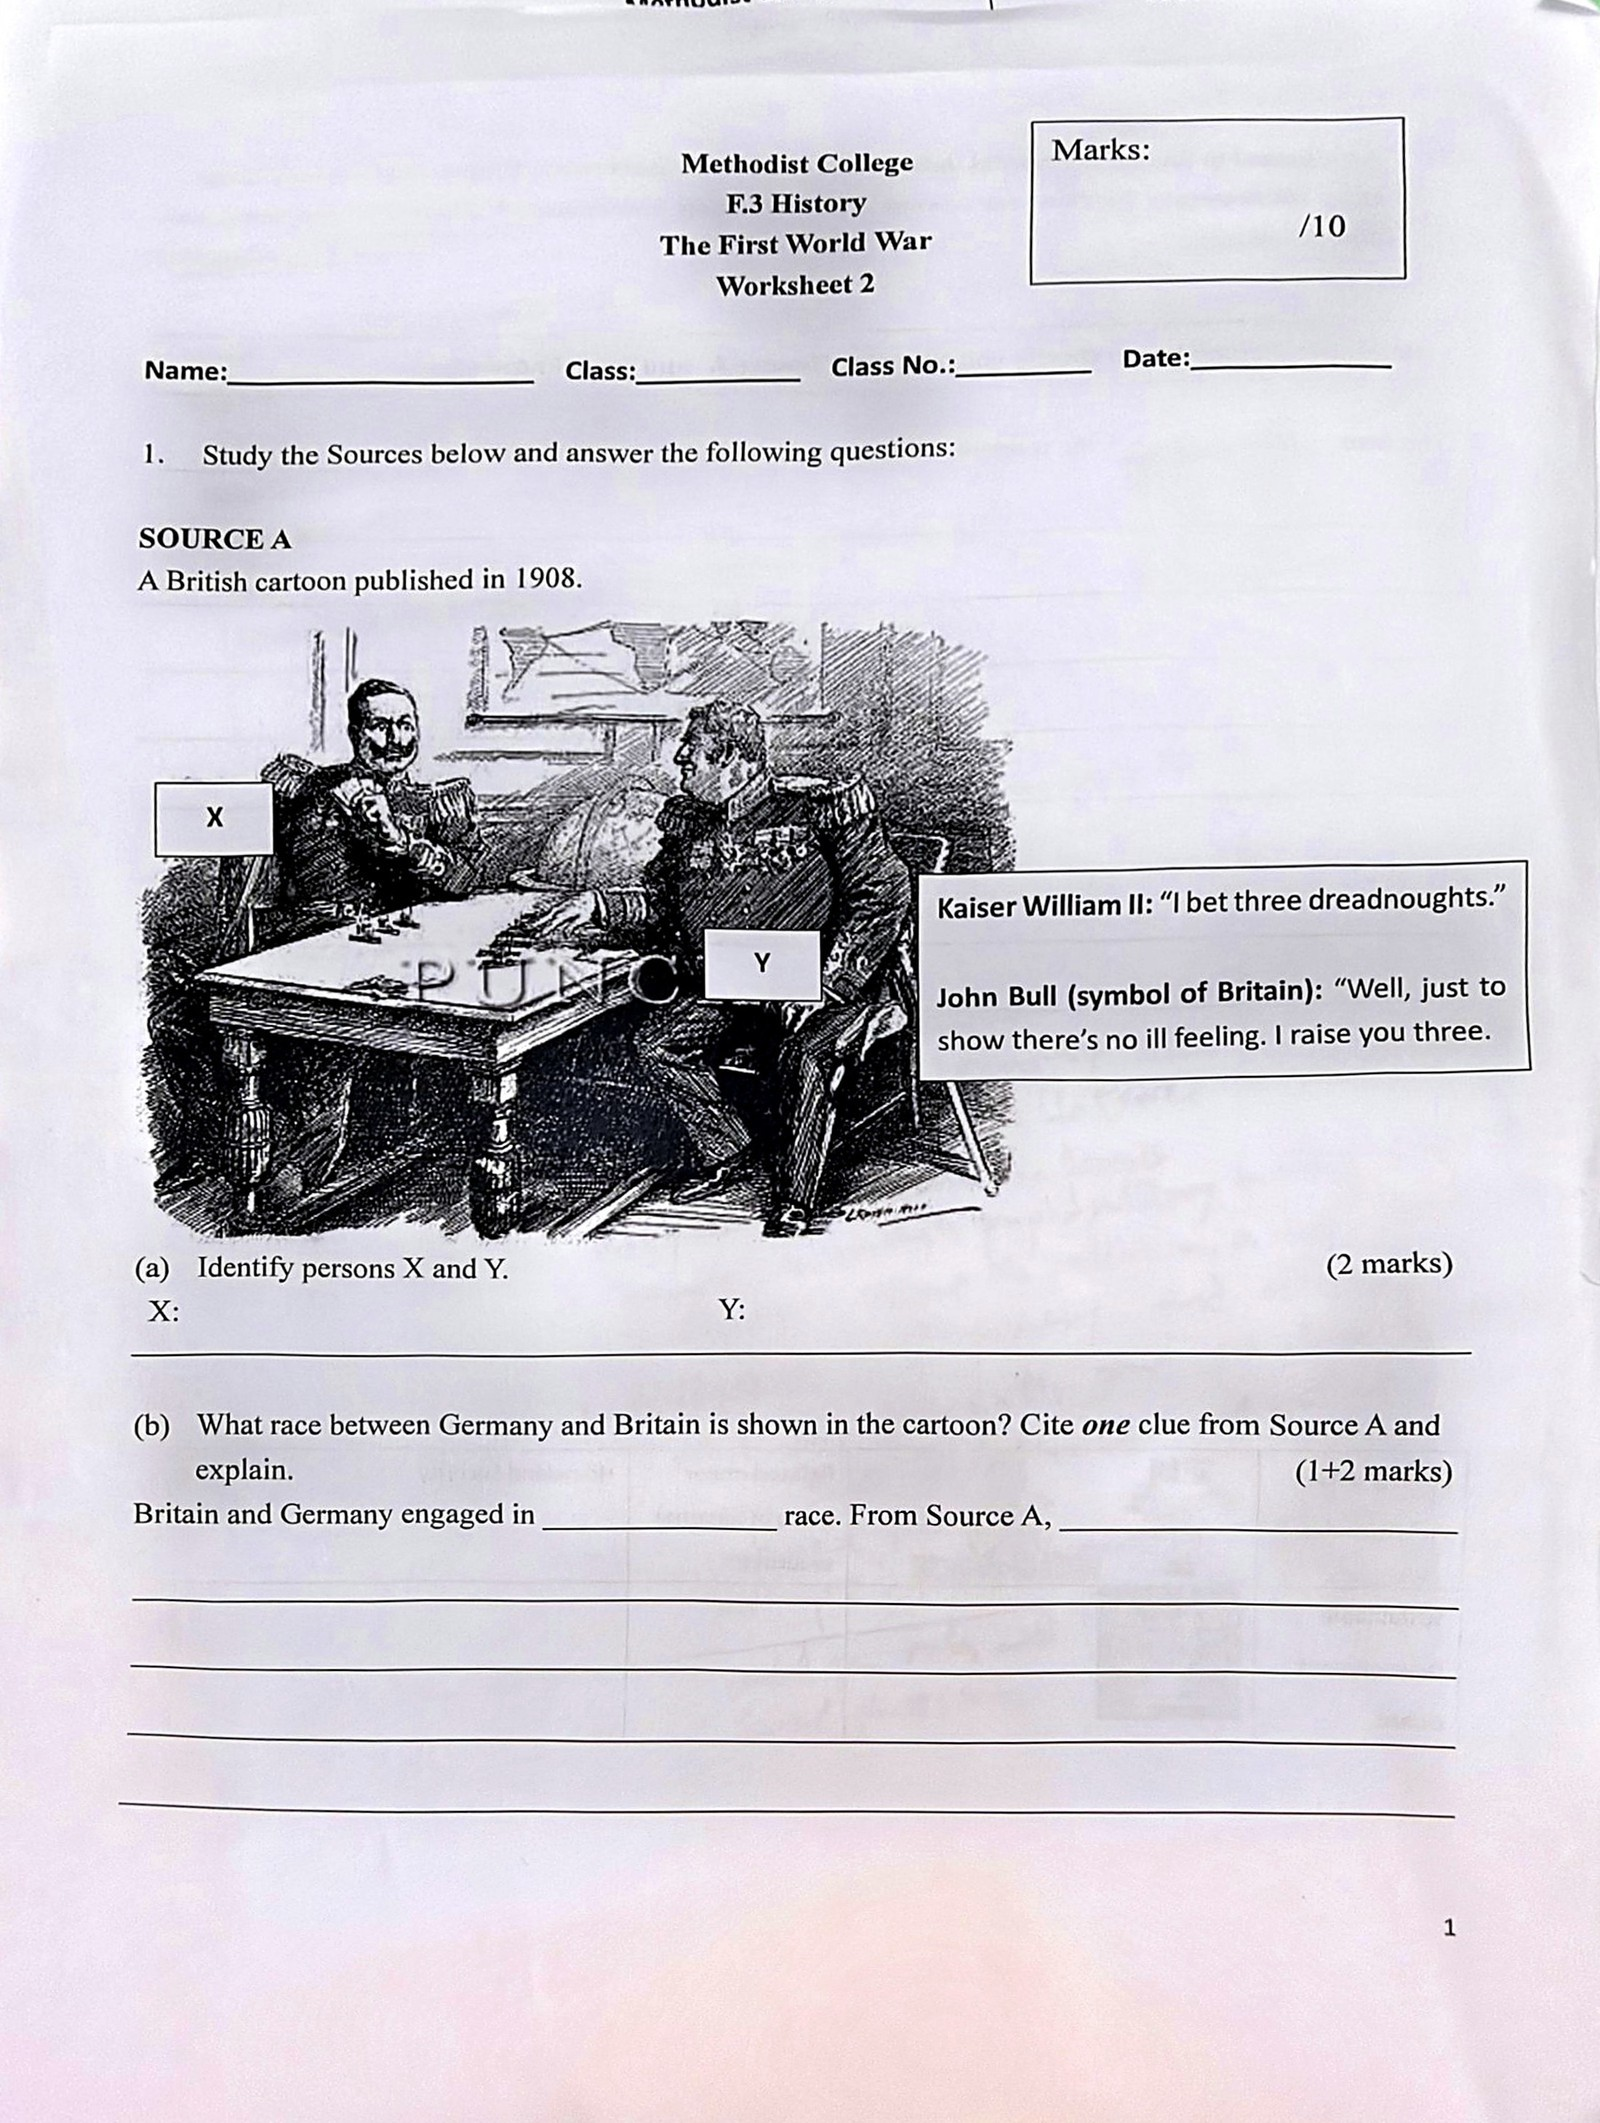
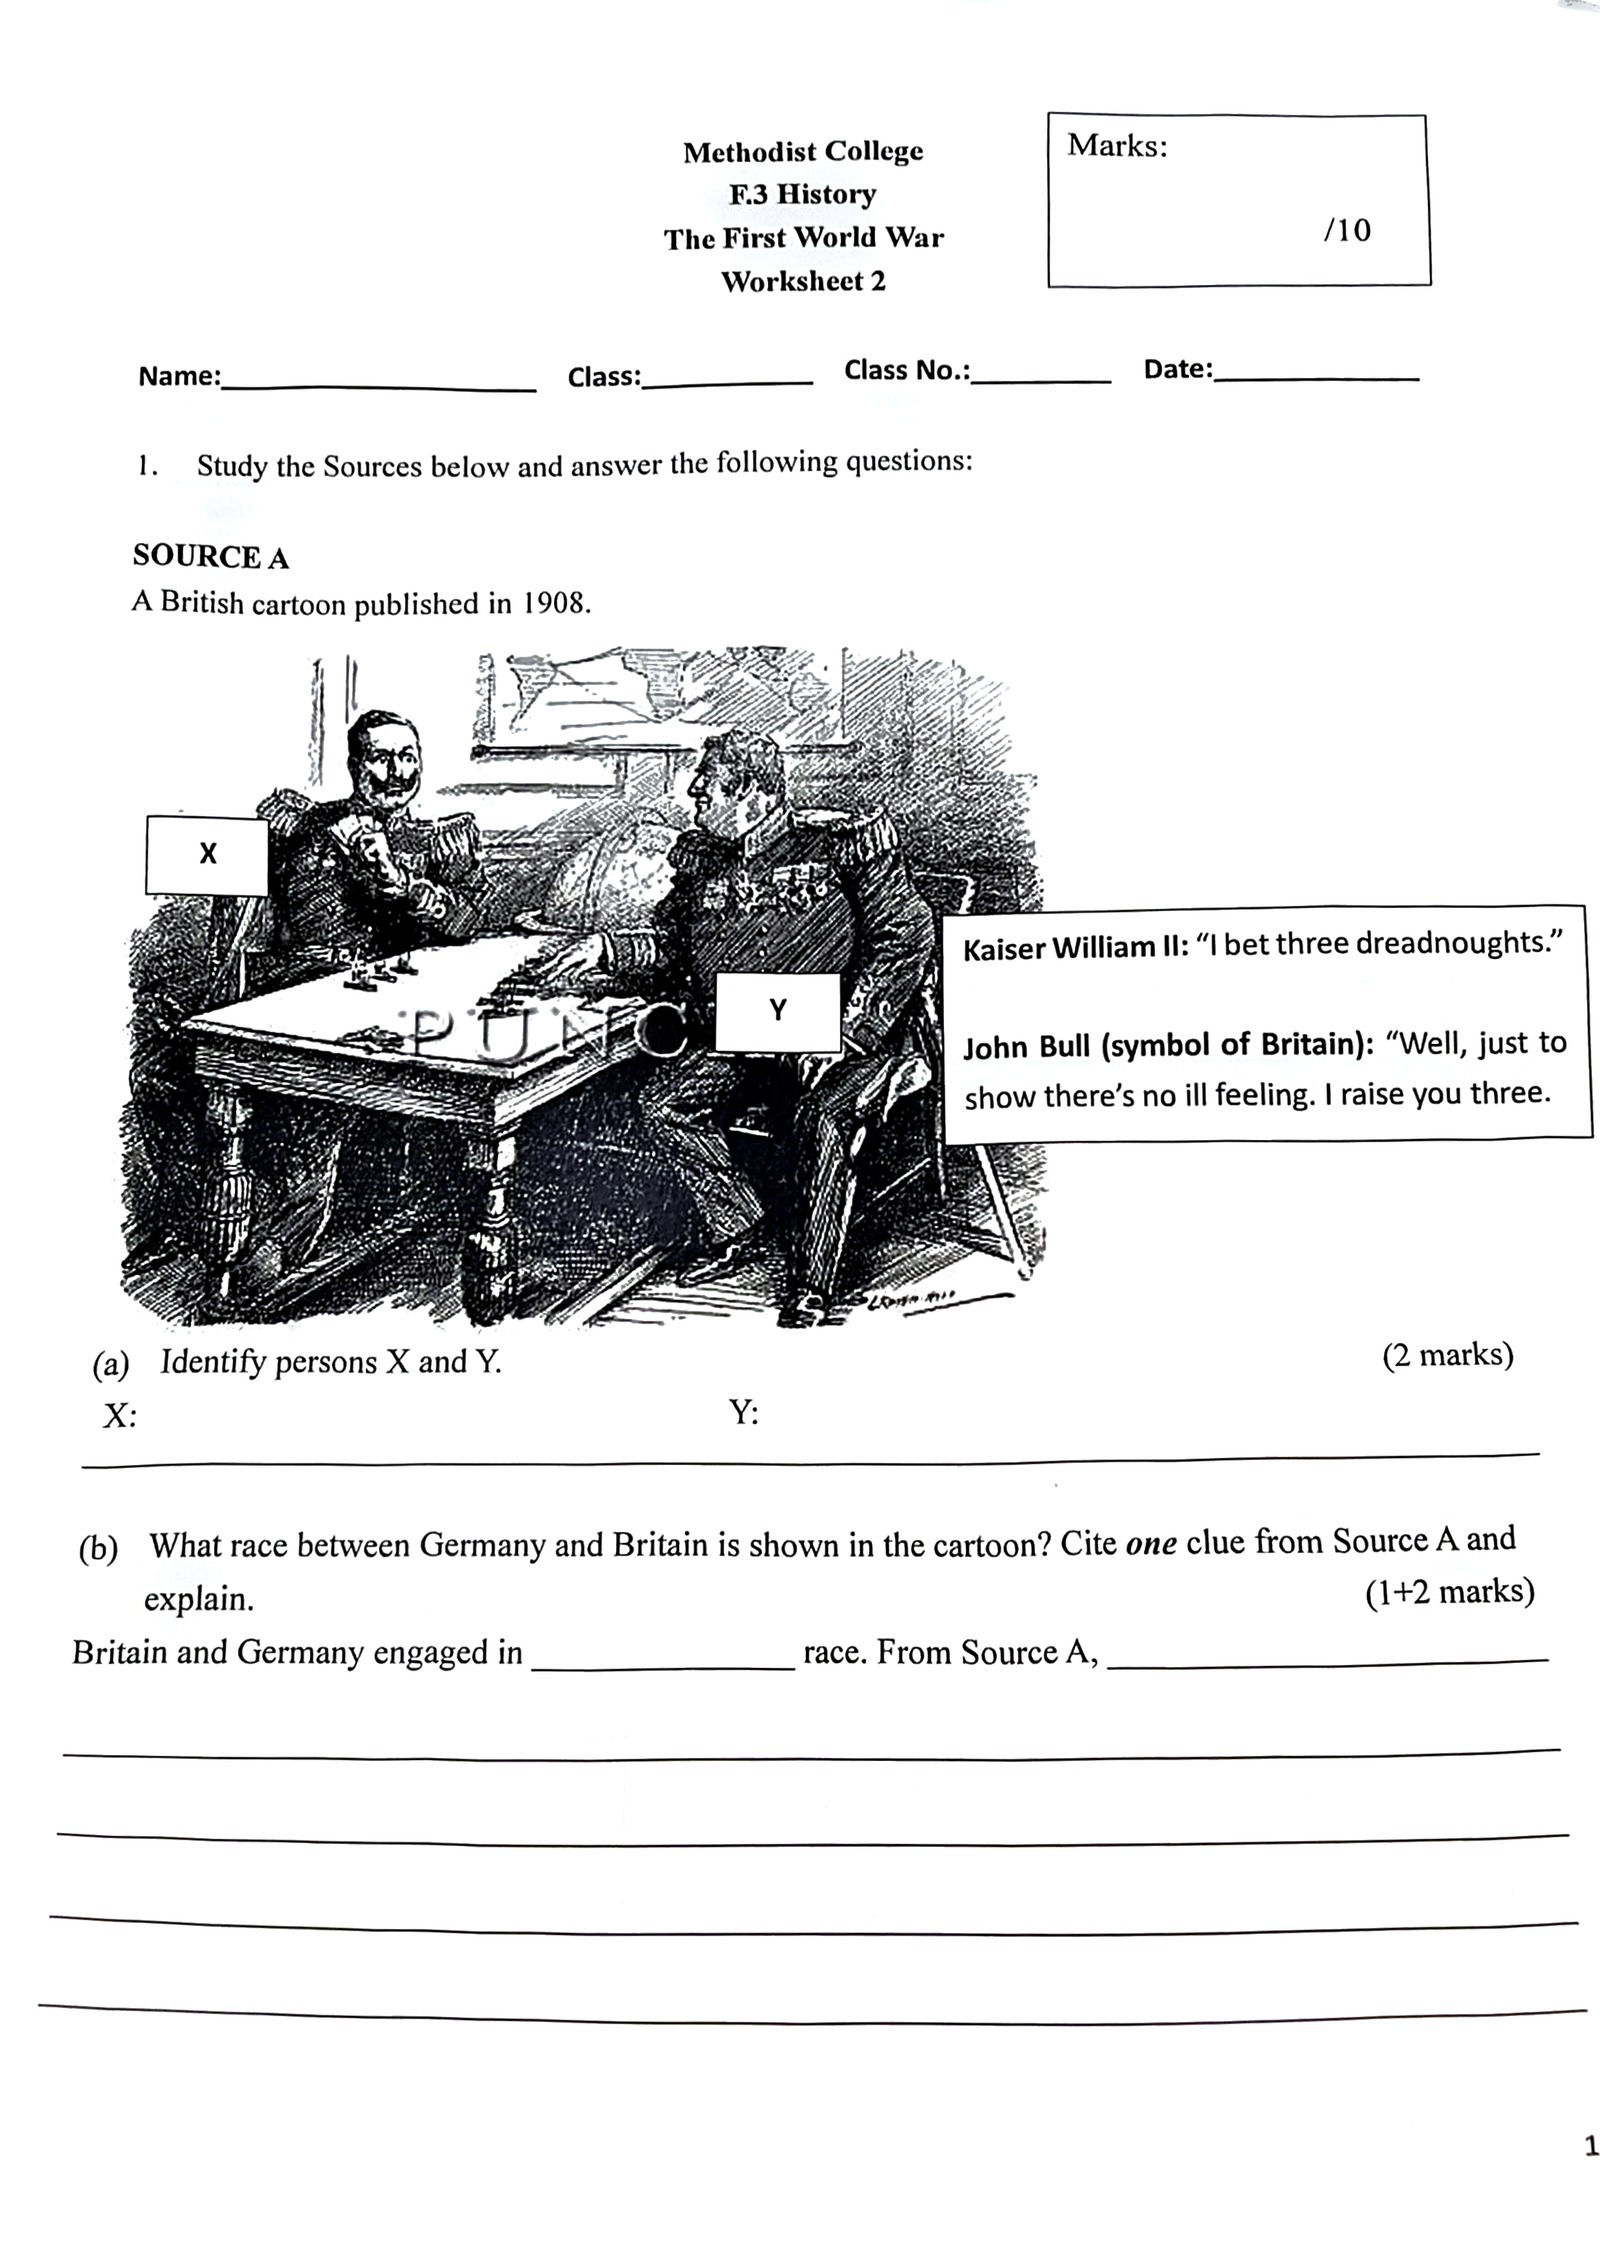
update v4yr8p: WS2 white flats v3

diff --git a/v4yr8p/index.html b/v4yr8p/index.html
@@ -1,7 +1,7 @@
 <!DOCTYPE html>
 <html lang="zh-Hant">
 <head>
-<!-- hist-ws2 scanned flats v2 -->
+<!-- hist-ws2 scanned flats v3 manual-corners white -->
 <script>if(location.protocol==="http:")location.replace("https://"+location.host+location.pathname+location.search);</script>
 <meta charset="utf-8">
 <meta name="viewport" content="width=device-width,initial-scale=1">
@@ -249,11 +249,11 @@ if(document.readyState==="loading") document.addEventListener("DOMContentLoaded"
 <div class="grid">
   <div class="col">
     <h2>材料（鏡頭只對準這段）<span id="tbname"></span></h2>
-    <div class="cam" id="tcam"><div class="stage" id="st_ws2a"><img data-src="p/ws2a.jpg?v=2" alt="Worksheet 2 · Source A + Q(a)(b)"></div><div class="stage" id="st_ws2b"><img data-src="p/ws2b.jpg?v=2" alt="Worksheet 2 · Q(c)"></div></div>
+    <div class="cam" id="tcam"><div class="stage" id="st_ws2a"><img data-src="p/ws2a.jpg?v=3" alt="Worksheet 2 · Source A + Q(a)(b)"></div><div class="stage" id="st_ws2b"><img data-src="p/ws2b.jpg?v=3" alt="Worksheet 2 · Q(c)"></div></div>
   </div>
   <div class="col">
     <h2>筆記板（只這一點）<span id="wbname"></span></h2>
-    <div class="cam" id="wcam"><div class="stage" id="st_note"><img data-src="p/note.jpg?v=2" alt="One-page note"></div></div>
+    <div class="cam" id="wcam"><div class="stage" id="st_note"><img data-src="p/note.jpg?v=3" alt="One-page note"></div></div>
   </div>
   <div class="col">
     <div class="teach" id="teach"><div class="bh">你的腦這樣想</div><div id="teachtext">撳 Play。頁面已 scan.py＋UVDoc 白底。只學方法；紙要你自己寫。</div><div class="zh" id="teachzh"></div></div>
